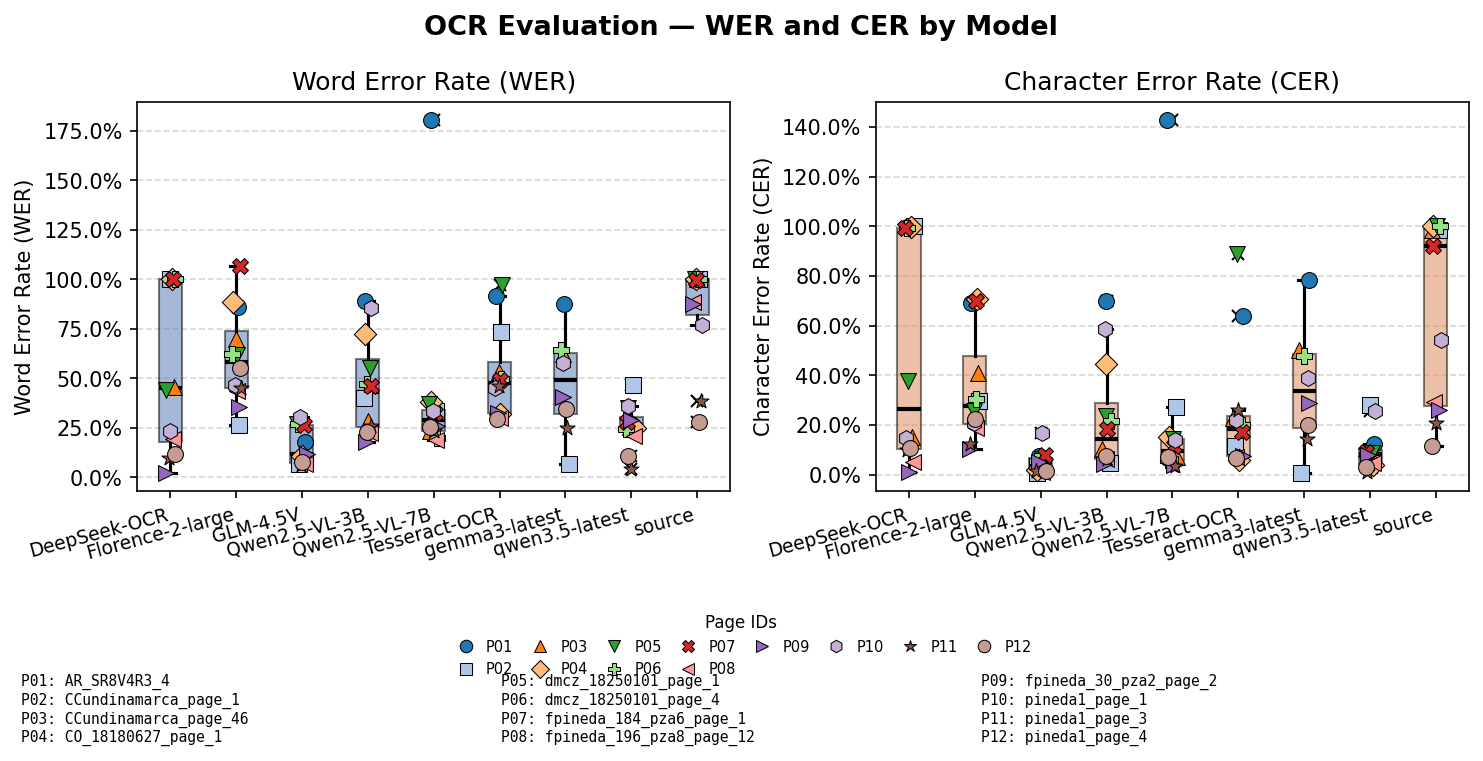
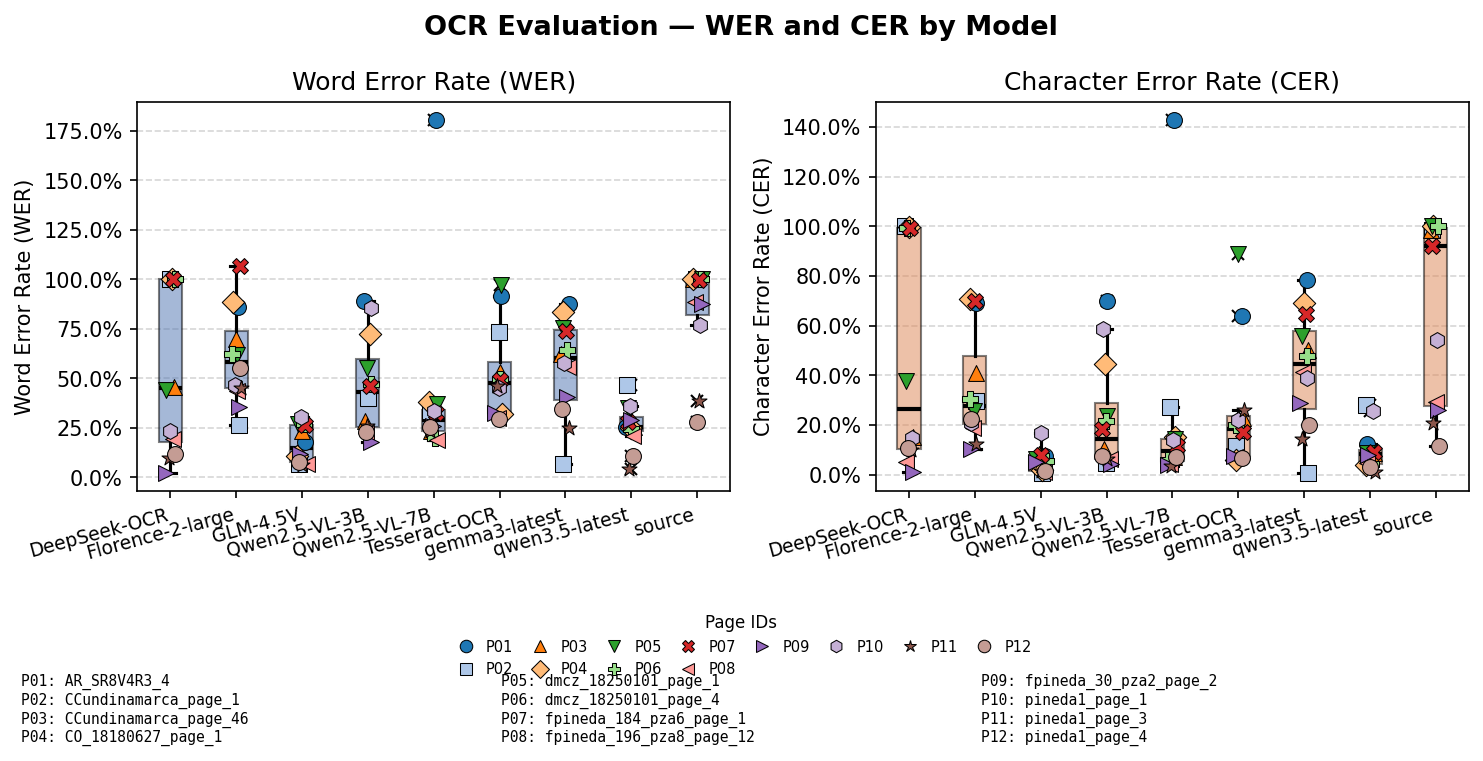
Add evaluation JSON and transcription for CCundinamarca; update chart generation to include boxplot

diff --git a/transcriptions/GLM-4.5V/CCundinamarca_page_46.md b/transcriptions/GLM-4.5V/CCundinamarca_page_46.md
@@ -1,0 +1,8 @@
+47
+APENDICE.
+EL Sereníssimo Colegio Constituyente, y Electoral de esta Provincia á propuesta de su Presidente D. Jorge Tadeo Lozano, en sesion del día veinte y seis de Marzo próximo pasado dió los decretos siguientes.
+1.° Un indulto para todas las personas presas, ó detenidas en consecuencia ó por motivo de la revolucion, conciliado no obstante, con la seguridad de la Patria, que alejará de su seno á los que la puedan ser perjudicia- les, y oficiará con los Gobiernos de las otras Provincias respecto de aquellos individuos, cuyas causas tengan relacion con ellos, nombrándose por el Go- bierno una comision que entienda particularmente en todo lo relativo á este decreto.
+2.° Un olvido por lo pasado, en razon de aquellas personas que por sus opiniones politicas hayan parecido opuestas ó menos adictas á la causa de nuestra transformación.
+3.° Reconocer por amigos á todos los que respetaren nuestra Constitu- cion, y reconozca en nuestra independencia, admitiendo en nuestra sociedad á todas las Naciones del Mundo, y con preferencia á nuestros hermanos de la América oprimida, y Españoles Europeos, para que encuentren un asilo en su desgracia, y nuestro suelo adquiera las ventajas de la industria, agri- cultura, é ilustracion en que vendran a emplearse, seguros de la hospitali- dad, y buena acogida que hallarán mientras vivan sometidos á la Constitu- cion, y en todo quanto sea compatible con la seguridad de esta Provincia.
+4.° Que se excite por el Gobierno á las Autoridades Eclesiasticas pa- ra convocacion y celebracion del Sínodo, en conformidad de lo que dispone, con arreglo á los mas antiguos cánones, el Santo Concilio de Trento, y reco- mienda la ley de Indias. = Lo que communico á V. S. para que haciéndolo presente al Supremo Poder Executivo, surta los efectos correspondientes á los buenos deseos con que el Sereníssimo Colegio ha dictado estas saludables providencias = Dios guarde á V. S. muchos años. Santafé 4 de Abril de 1811 =Frutos Joaquin Gutierrez = Señor Secretario de Estado, y del Des- pacho, Universal de Gracia y Justicia, D. José Azevedo Gomez.
+www.revolucionneogranadina.com
